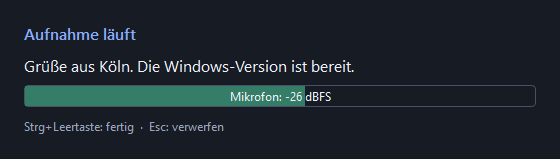
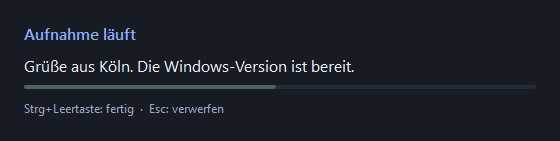
Make Windows microphone meter subtle and smooth

Changed region(s): [[0.0304, 0.3688, 0.9714, 0.6809], [0.0304, 0.7376, 0.425, 0.8511], [0.0304, 0.1702, 0.2429, 0.2837]]

diff --git a/lautschrift_windows.py b/lautschrift_windows.py
@@ -113,19 +113,31 @@ class Overlay(QWidget):
         self.text.setTextFormat(Qt.PlainText)
         self.text.setWordWrap(True)
         self.level = QProgressBar()
-        self.level.setRange(0, 60)
-        self.level.setValue(0)
-        self.level.setFormat("Mikrofon: noch kein Signal")
-        self.level.setStyleSheet("QProgressBar {border: 1px solid #46516a; border-radius: 4px; text-align: center; font-size: 12px; height: 20px;} QProgressBar::chunk {background: #357d67;}")
+        self.level.setRange(0, 1000)
+        self.level.setTextVisible(False)
+        self.level.setFixedHeight(4)
+        self.level.setAccessibleName("Mikrofonpegel")
+        self.level.setStyleSheet("QProgressBar {border: none; border-radius: 2px; background: #232c38;} QProgressBar::chunk {background: #48665f; border-radius: 2px;}")
+        self.reset_level()
         self.hint = QLabel("Strg+Leertaste: fertig  ·  Esc: verwerfen")
         self.hint.setStyleSheet("font-size: 12px; color: #99a5bb;")
         for widget in (self.heading, self.text, self.level, self.hint):
             layout.addWidget(widget)
 
+    def reset_level(self):
+        self._level_value = 0.0
+        self._level_time = time.monotonic()
+        self.level.setValue(0)
+
     def set_level(self, peak):
-        db = 20 * np.log10(max(peak, 1e-8))
-        self.level.setValue(int(np.clip(db + 60, 0, 60)))
-        self.level.setFormat(f"Mikrofon: {db:.0f} dBFS" if peak else "Mikrofon: kein Signal")
+        # Smooth attack and slower release keep individual audio blocks from flashing.
+        now = time.monotonic()
+        elapsed = min(now - self._level_time, 0.1)
+        self._level_time = now
+        target = float(np.clip((20 * np.log10(max(peak, 1e-8)) + 60) / 60, 0, 1))
+        smoothing = 0.18 if target > self._level_value else 0.55
+        self._level_value += (target - self._level_value) * (1 - np.exp(-elapsed / smoothing))
+        self.level.setValue(round(self._level_value * 1000))
 
     def display(self, heading, text=None):
         self.heading.setText(heading)
@@ -264,7 +276,7 @@ class Dictation:
         self.session += 1
         self.target = user32.GetForegroundWindow()
         self.recorder = recorder
-        self.overlay.set_level(0)
+        self.overlay.reset_level()
         self.last_decode = time.monotonic()
         self.set_state("recording")
         self.overlay.display("● Aufnahme läuft", "Jetzt sprechen …")

diff --git a/README.md b/README.md
@@ -46,7 +46,7 @@ Ein bestehendes Modell wird wiederverwendet. Administratorrechte sind nicht nöt
 - **Esc:** laufende Aufnahme oder ausstehende Erkennung verwerfen; die Zwischenablage bleibt unverändert.
 - **Taskleistensymbol:** Status, Aufnahme, Abbruch, Einfügetastenkombination und Beenden.
 - Das Live-Overlay bleibt im Vordergrund, ohne den Tastaturfokus zu übernehmen.
-- Eine Live-Pegelanzeige zeigt das Mikrofonsignal in dBFS; bei sehr schwachem
+- Eine schmale, geglättete Pegellinie zeigt das Mikrofonsignal ohne wechselnde Zahlen; bei sehr schwachem
   Eingangssignal und leerem Erkennungsergebnis erscheint ein Hinweis zur Mikrofonprüfung.
 - Nach maximal 120 Sekunden wird eine Aufnahme automatisch beendet und erkannt.
 - Bei einem Fensterwechsel während des Diktats wird der Text nur kopiert;
